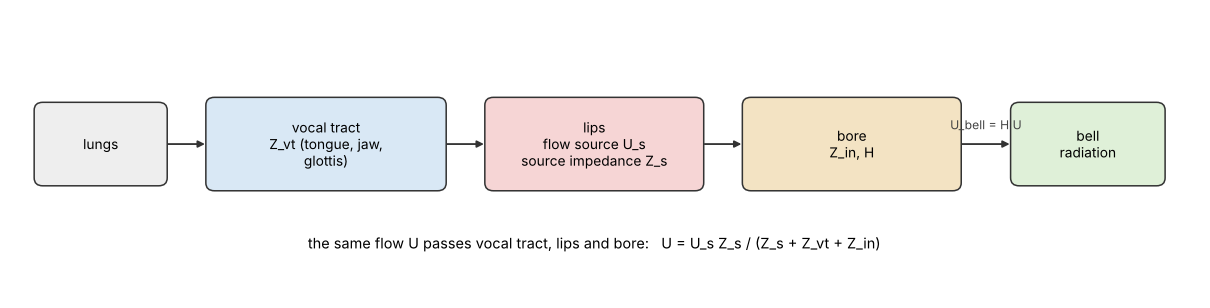
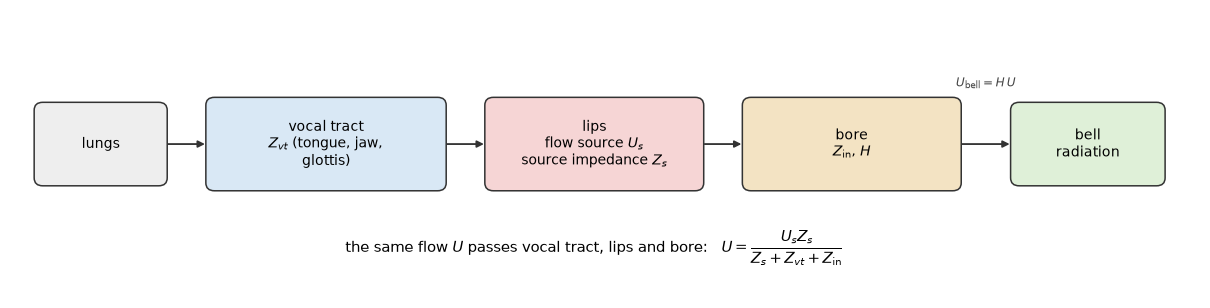
Synthesizer article: fix formulas that GitHub did not render
Six inline formulas (a multi-line matrix and formulas in italic captions)
now use GitHub's $`...`$ math syntax. The pipeline and coupling diagrams
typeset their formulas as math text instead of plain Z_in, Z_vt, f0. The
plot labels of the bore and impedance figures are fixed in the script, but
those figures are not redrawn because the current model changes their curves.

diff --git a/scripts/synth/make_figures.py b/scripts/synth/make_figures.py
@@ -47,13 +47,13 @@ ax0.set_title("Arusha bore (Didge Archive), true proportions; mouthpiece left, b
 ax0.set_xlabel("x / mm")
 ax0.set_ylabel("r / mm")
 ax1 = fig.add_subplot(gs[1])
-ax1.semilogy(f, np.abs(b.interp("Zin", f)) / 1e6, lw=0.8, label="|Z_in| (DidgeLab)")
+ax1.semilogy(f, np.abs(b.interp("Zin", f)) / 1e6, lw=0.8, label=r"$|Z_{\mathrm{in}}|$ (DidgeLab)")
 for r in b.resonances[:7]:
     ax1.axvline(r.freq, color="gray", lw=0.4, ls=":")
-ax1.set_ylabel("MPa s / m^3")
+ax1.set_ylabel(r"MPa s / m$^3$")
 ax1.legend()
 ax2 = fig.add_subplot(gs[2], sharex=ax1)
-ax2.semilogy(f, np.abs(b.interp("H", f)), lw=0.8, color="#d62728", label="|H| = |U_bell / U_mouth|")
+ax2.semilogy(f, np.abs(b.interp("H", f)), lw=0.8, color="#d62728", label=r"$|H| = |U_{\mathrm{bell}} / U_{\mathrm{mouth}}|$")
 ax2.set_xlabel("frequency / Hz")
 ax2.legend()
 plt.tight_layout()
@@ -83,15 +83,16 @@ ax.set_xlim(0, 11)
 ax.set_ylim(0, 4.2)
 ax.axis("off")
 C_BORE, C_PLAY, C_CORE, C_OUT = "#f3e3c3", "#d9e8f5", "#e6dcf2", "#dff0d8"
-box(ax, 1.1, 3.4, 1.9, 0.75, "bore geometry\n[x_mm, d_mm]", C_BORE)
+box(ax, 1.1, 3.4, 1.9, 0.75, "bore geometry\n[$x$ (mm), $d$ (mm)]", C_BORE)
 box(ax, 3.6, 3.4, 2.1, 0.75, "DidgeLab\ntransmission line", C_BORE)
-box(ax, 6.4, 3.4, 2.6, 0.75, "Z_in(f), H(f),\nresonances, group delay", C_BORE)
+box(ax, 6.4, 3.4, 2.6, 0.75, r"$Z_{\mathrm{in}}(f)$, $H(f)$," "\nresonances, group delay", C_BORE)
 box(ax, 1.1, 1.3, 1.9, 0.75, "score / song\n(.didge)", C_PLAY)
 box(ax, 3.6, 1.3, 2.1, 0.75, "player:\nplaying techniques", C_PLAY)
-box(ax, 6.4, 1.3, 2.6, 0.9, "control signals (500 Hz)\nf0, amplitude, lip shape,\ntongue, jaw, glottis, voice", C_PLAY)
-box(ax, 6.4, 2.35, 2.2, 0.55, "vocal tract Z_vt(f)", C_PLAY)
-box(ax, 9.3, 2.35, 2.5, 1.0, "coupling\nG = jf H Zs / (Zs+Zvt+Zin)\n+ bore inertia", C_CORE)
-box(ax, 9.3, 0.6, 2.5, 0.75, "partial bank + noise\n+ room  ->  audio", C_OUT)
+box(ax, 6.4, 1.3, 2.6, 0.9, "control signals (500 Hz)\n$f_0$, amplitude, lip shape,\ntongue, jaw, glottis, voice", C_PLAY)
+box(ax, 6.4, 2.35, 2.2, 0.55, r"vocal tract $Z_{vt}(f)$", C_PLAY)
+box(ax, 9.3, 2.35, 2.5, 1.0, "coupling\n"
+    r"$G \propto j f\, H\, \dfrac{Z_s}{Z_s + Z_{vt} + Z_{\mathrm{in}}}$" "\n+ bore inertia", C_CORE)
+box(ax, 9.3, 0.6, 2.5, 0.75, "partial bank + noise\n" r"+ room $\rightarrow$ audio", C_OUT)
 arrow(ax, 2.05, 3.4, 2.55, 3.4)
 arrow(ax, 4.65, 3.4, 5.1, 3.4)
 arrow(ax, 2.05, 1.3, 2.55, 1.3)
@@ -100,7 +101,7 @@ arrow(ax, 6.4, 1.75, 6.4, 2.08)
 arrow(ax, 7.7, 3.4, 8.6, 2.85)
 arrow(ax, 7.5, 2.35, 8.05, 2.35)
 arrow(ax, 7.7, 1.3, 8.4, 1.85)
-ax.text(8.25, 1.2, "f0, lip shape,\namplitude", fontsize=7.5, color="#444444")
+ax.text(8.25, 1.2, "$f_0$, lip shape,\namplitude", fontsize=7.5, color="#444444")
 arrow(ax, 9.3, 1.85, 9.3, 0.98)
 plt.tight_layout()
 plt.savefig(FIG / "pipeline.png", dpi=110)
@@ -111,15 +112,15 @@ ax.set_xlim(0, 11)
 ax.set_ylim(0, 2.8)
 ax.axis("off")
 box(ax, 0.8, 1.5, 1.2, 0.8, "lungs", "#eeeeee")
-box(ax, 2.9, 1.5, 2.2, 0.9, "vocal tract\nZ_vt (tongue, jaw,\nglottis)", C_PLAY)
-box(ax, 5.4, 1.5, 2.0, 0.9, "lips\nflow source U_s\nsource impedance Z_s", "#f6d5d5")
-box(ax, 7.8, 1.5, 2.0, 0.9, "bore\nZ_in, H", C_BORE)
+box(ax, 2.9, 1.5, 2.2, 0.9, "vocal tract\n$Z_{vt}$ (tongue, jaw,\nglottis)", C_PLAY)
+box(ax, 5.4, 1.5, 2.0, 0.9, "lips\nflow source $U_s$\nsource impedance $Z_s$", "#f6d5d5")
+box(ax, 7.8, 1.5, 2.0, 0.9, "bore\n" r"$Z_{\mathrm{in}}$, $H$", C_BORE)
 box(ax, 10.0, 1.5, 1.4, 0.8, "bell\nradiation", C_OUT)
 for x0, x1 in [(1.4, 1.8), (4.0, 4.4), (6.4, 6.8), (8.8, 9.3)]:
     arrow(ax, x0, 1.5, x1, 1.5)
-ax.text(5.4, 0.45, "the same flow U passes vocal tract, lips and bore:   "
-        "U = U_s Z_s / (Z_s + Z_vt + Z_in)", ha="center", fontsize=9.5)
-ax.text(9.05, 1.62, "U_bell = H U", ha="center", va="bottom", fontsize=8, color="#444444")
+ax.text(5.4, 0.45, "the same flow $U$ passes vocal tract, lips and bore:   "
+        r"$U = \dfrac{U_s Z_s}{Z_s + Z_{vt} + Z_{\mathrm{in}}}$", ha="center", va="center", fontsize=9.5)
+ax.text(9.05, 2.05, r"$U_{\mathrm{bell}} = H\,U$", ha="center", va="bottom", fontsize=8, color="#444444")
 plt.tight_layout()
 plt.savefig(FIG / "coupling.png", dpi=110)
 plt.close()
@@ -221,11 +222,11 @@ ff = np.arange(50, 4000, 2.0)
 zs = p.zs_mpa * 1e6
 for k, col in [("i", "#1f77b4"), ("u", "#d62728")]:
     zvt = vocaltract.impedance(VOWELS[k], ff)
-    ax.semilogy(ff, np.abs(zvt) / 1e6, color=col, lw=0.9, label=f"|Z_vt| '{k}'")
-ax.semilogy(ff, np.abs(bm.interp("Zin", ff)) / 1e6, color="gray", lw=0.5, label="|Z_in| bore")
-ax.axhline(p.zs_mpa, color="k", ls="--", lw=0.8, label="Z_s (lips)")
+    ax.semilogy(ff, np.abs(zvt) / 1e6, color=col, lw=0.9, label=rf"$|Z_{{vt}}|$ '{k}'")
+ax.semilogy(ff, np.abs(bm.interp("Zin", ff)) / 1e6, color="gray", lw=0.5, label=r"$|Z_{\mathrm{in}}|$ bore")
+ax.axhline(p.zs_mpa, color="k", ls="--", lw=0.8, label=r"$Z_s$ (lips)")
 ax.set_xlabel("frequency / Hz")
-ax.set_ylabel("MPa s m^-3")
+ax.set_ylabel(r"MPa s m$^{-3}$")
 ax.legend(fontsize=7, ncol=2)
 plt.tight_layout()
 plt.savefig(FIG / "impedances.png", dpi=90)

diff --git a/doc/synthesizer.md b/doc/synthesizer.md
@@ -83,8 +83,8 @@ $`r_v = \sqrt{\rho\,\omega\,\bar A/(\pi\eta)}`$:
 Z_c = \frac{\rho c}{A_0}\left[1+\frac{0.369}{r_v} - j\frac{0.369}{r_v}\right].
 ```
 
-The whole bore is the product $\mathbf M = \prod_i \mathbf T_i =
-\begin{pmatrix}A&B\\C&D\end{pmatrix}$, terminated at the bell by the radiation
+The whole bore is the product $`\mathbf M = \prod_i \mathbf T_i =
+\begin{pmatrix}A&B\\C&D\end{pmatrix}`$, terminated at the bell by the radiation
 impedance $Z_r$ of an unflanged pipe (Levine & Schwinger, low $ka$) at the bell
 opening of diameter $d$ and area $S$: $`Z_r = \frac{\rho c}{S}\,[(\omega d/c)^2/16 + j\,0.3\,\omega d/c]`$. Air properties are those of DidgeLab's default: moist air
 at 28 °C ($c = 350.2$ m/s, $\rho = 1.156$ kg/m³).
@@ -115,8 +115,8 @@ sweep.
 
 ![Arusha bore, input impedance and transfer function](figures/bore_arusha.png)
 
-*Figure 1. Bore of "Arusha" from the Didge Archive, $|Z_{\text{in}}|$ from
-DidgeLab and $|H|$. Both have their peaks at the resonances.*
+*Figure 1. Bore of "Arusha" from the Didge Archive, $`|Z_{\text{in}}|`$ from
+DidgeLab and $`|H|`$. Both have their peaks at the resonances.*
 
 ---
 
@@ -299,7 +299,7 @@ directivity of the bell and the microphone. Note what the formula does:
 ![Impedances](figures/impedances.png)
 
 *Figure 4. Vocal-tract impedances for "ee" and "oo", bore input impedance (Matema)
-and the lip source impedance $Z_s$.*
+and the lip source impedance $`Z_s`$.*
 
 The played drone is the first resonance of DidgeLab; toots are played on the
 higher resonances. The Didge Archive shows that toots sound about 30–40 cents
@@ -692,7 +692,7 @@ tongue *relative to the player's average position*. Movements are measured;
 whether a player is mostly at the front or at the back cannot be determined.
 
 *An earlier tracker took the strongest (later: the lowest strong) peak of
-$R_t$ after removing an affine trend in $\log f$, and translated its frequency
+$`R_t`$ after removing an affine trend in $`\log f`$, and translated its frequency
 into a tongue position with the model. On the synthetic glides it moved in the
 wrong direction (correlation −0.2 to −0.4): when the formant falls, the trend
 removal turns the upper end of the band (3–4 kHz) into the strongest peak. The
